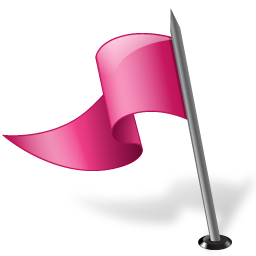
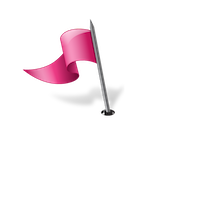
add current position

diff --git a/src/screens/MapScreen.tsx b/src/screens/MapScreen.tsx
@@ -19,6 +19,9 @@ import tieFighterImg from "../../assets/tie-fighter.png";
 // eslint-disable-next-line @typescript-eslint/ban-ts-comment
 // @ts-ignore
 import xWingImg from "../../assets/x-wing.png";
+// eslint-disable-next-line @typescript-eslint/ban-ts-comment
+// @ts-ignore
+import pinkFlagImg from "../../assets/flag-pink.png";
 const screen = Dimensions.get("window");
 
 const ASPECT_RATIO = screen.width / screen.height;
@@ -48,6 +51,12 @@ const MapScreen = (props: MapScreenProps) => {
       longitudeDelta: LONGITUDE_DELTA,
     })
   );
+  const [currentCoordinate, setCurrentCoordinate] = useState({
+    latitude: LATITUDE,
+    longitude: LONGITUDE,
+    latitudeDelta: LATITUDE_DELTA,
+    longitudeDelta: LONGITUDE_DELTA,
+  });
   const [marker, setMarker] = useState(null);
   const [marker2, setMarker2] = useState(null);
   const [location, setLocation] = useState(null);
@@ -75,6 +84,20 @@ const MapScreen = (props: MapScreenProps) => {
         latitudeDelta: LATITUDE_DELTA,
         longitudeDelta: LONGITUDE_DELTA,
       });
+      setCurrentCoordinate(
+        // eslint-disable-next-line @typescript-eslint/ban-ts-comment
+        // @ts-ignore
+        new AnimatedRegion({
+          // eslint-disable-next-line @typescript-eslint/ban-ts-comment
+          // @ts-ignore
+          latitude: locationTmp.coords.latitude,
+          // eslint-disable-next-line @typescript-eslint/ban-ts-comment
+          // @ts-ignore
+          longitude: locationTmp.coords.longitude,
+          latitudeDelta: LATITUDE_DELTA,
+          longitudeDelta: LONGITUDE_DELTA,
+        })
+      );
     })();
   }, []);
   function animate() {
@@ -145,6 +168,14 @@ const MapScreen = (props: MapScreenProps) => {
         // @ts-ignore
         region={userRegion}
       >
+        <MarkerAnimated
+          key="marker-0"
+          image={pinkFlagImg}
+          title="Ma position"
+          // eslint-disable-next-line @typescript-eslint/ban-ts-comment
+          // @ts-ignore
+          coordinate={currentCoordinate}
+        />
         <MarkerAnimated
           key="marker-1"
           ref={(markerTmp) => {
